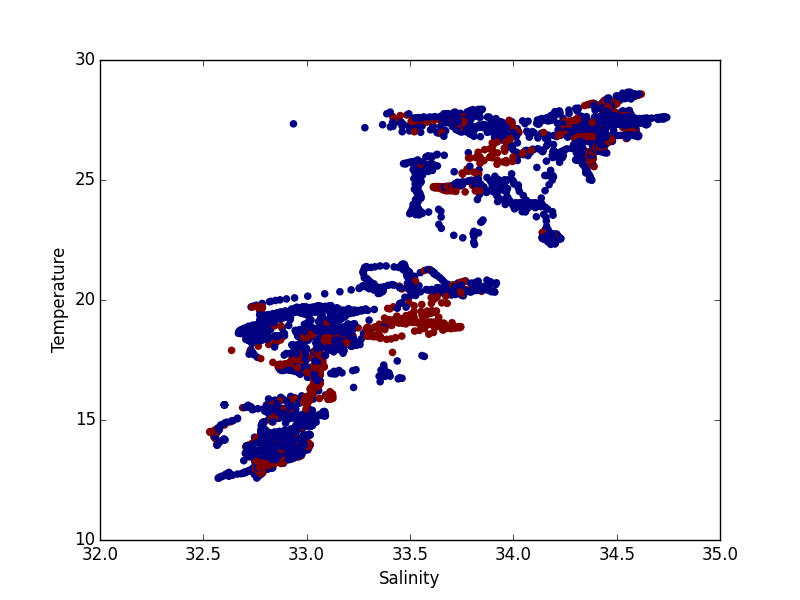
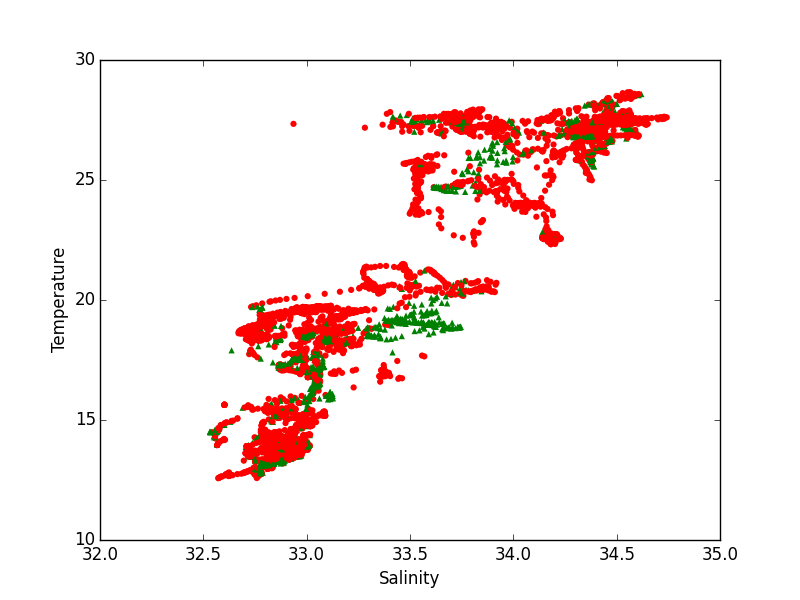
Output Files + Plots
- Added Voyage Plot

Changed region(s): [[0.25, 0.42, 0.625, 0.81], [0.4688, 0.15, 0.8438, 0.42]]

diff --git a/Code/Step 3 - PCA + KMeans + Plot/SeaFlow_Master.py b/Code/Step 3 - PCA + KMeans + Plot/SeaFlow_Master.py
@@ -15,6 +15,7 @@ import warnings
 import matplotlib.pylab
 from collections import Counter
 warnings.filterwarnings("ignore", 'Mean of empty slice.')
+from mpl_toolkits.basemap import Basemap, cm
 from sklearn.cluster import KMeans
 from sklearn import metrics
 from pylab import *
@@ -67,6 +68,37 @@ def Compute_Silhouette_Score(f):
         labels = kmeans_model.labels_  
         NoOfClusters[i] = metrics.silhouette_score(PCA_Data, labels, metric='euclidean')
     return max(NoOfClusters.iteritems(), key=operator.itemgetter(1))[0]
+
+def Plot_Voyage(Cruise, f):
+    VoyageImage = "C:\Users\NYU\SeaFlowCapstone\Voyage" + ".png"
+    source = pd.read_csv(f, usecols=['LAT', 'LON', 'OCEANTEMP', 'SALINITY', 'Cluster Class'])
+    x = (source['LON']).values 
+    y = (source['LAT']).values 
+    z = (source['Cluster Class']).values 
+    
+    GetFileVariables = pd.read_csv(Cruise, usecols=['Cruise'])
+    Cruise = GetFileVariables.at[0,'Cruise']    
+    
+    x[x<0]= 360+x[x<0];
+    xew = x
+    xew[xew>180] = xew[xew>180]-360
+    source['LON'] = xew
+    fig1 = plt.figure(1, figsize=(15,9))
+    m = Basemap(width=12000000,height=9000000,projection='lcc',
+                resolution='c',lat_1=15.,lat_2=60,lat_0=45,lon_0=-180.)
+    m.drawcoastlines()
+    m.drawmapboundary(fill_color='white')
+    m.fillcontinents(color='grey',lake_color='white')
+    xm, ym = m(xew,y)
+    colors = ['r', 'g', 'b']
+    markers = ['o','^','v']
+    for i,f in enumerate(xm):
+        m.scatter(xm[i], ym[i], s=30, marker=markers[z[i]], c=colors[z[i]], edgecolor='none')
+    m.drawparallels(np.arange(10,90,20),labels=[1,1,0,1])
+    m.drawmeridians(np.arange(-180,180,30),labels=[1,1,0,1])     
+    plt.savefig(VoyageImage)
+    plt.clf()        
+
 
 def Compute_KMeans(f,K):
     ComponentsFile = "C:\Users\NYU\SeaFlowCapstone\EigenComponents" + ".png"
@@ -137,30 +169,35 @@ def Compute_KMeans(f,K):
     plt.savefig(ComponentsFile)
     plt.clf()
     
+    colors = ['r', 'g', 'b']
+    markers = ['o','^','v']    
     fig = plt.figure()
-    plt.scatter(df_processed['SALINITY'],df_processed['OCEANTEMP'], s=20, c=df_processed['Cluster Class'], edgecolor='none')  
+    for i, f in enumerate(df_processed['SALINITY']):
+        plt.scatter(df_processed['SALINITY'].values[i],df_processed['OCEANTEMP'].values[i], s=20, marker=markers[df_processed['Cluster Class'].values[i]], c=colors[df_processed['Cluster Class'].values[i]], edgecolor='none')  
     plt.xlim(32, 35)
     plt.xlabel("Salinity")
     plt.ylabel("Temperature")    
     plt.savefig(TempSalFile)
     plt.clf()
+    return CFilePath
 
 def main():
-    ListofList = []
-    Dict_KMeans = {}
+    #ListofList = []
+    #Dict_KMeans = {}
     path = "C:\Users\NYU\Cap\*"
-    OPFile = 'C:\Users\NYU\SeaFlowCapstone\Capstone.csv'
+    #OPFile = 'C:\Users\NYU\SeaFlowCapstone\Capstone.csv'
     MergedFilePath = 'C:\\Users\\NYU\\SeaFlowCapstone\\Merged.csv'
-    EnvironmentVariables = 'C:\\Users\\NYU\\armbrustlab-seaflow-Tokyo3_sds.csv'
+    #EnvironmentVariables = 'C:\\Users\\NYU\\armbrustlab-seaflow-Tokyo3_sds.csv'
     FileList = CreateList(path)
-    for i in FileList:
-        Dict_KMeans = Counter(Dict_KMeans) + Counter(Create_Principal_Components(i)) 
-    FinalMatrix = pd.DataFrame(Dict_KMeans, columns=['day','file','Eigenvalue0','Eigenvector01','Eigenvector02','Eigenvector03','Eigenvalue1','Eigenvector11','Eigenvector12','Eigenvector13'])
-    FinalMatrix.to_csv(OPFile)
-    EnvVarFile = pd.read_csv(EnvironmentVariables, usecols=['day','file','LAT','LON','OCEANTEMP','SALINITY'])
-    MergedFile = pd.merge(FinalMatrix,EnvVarFile, on=['day','file'])
-    MergedFile.to_csv(MergedFilePath)
-    Compute_KMeans(MergedFilePath,Compute_Silhouette_Score(MergedFilePath))
+    #for i in FileList:
+    #    Dict_KMeans = Counter(Dict_KMeans) + Counter(Create_Principal_Components(i)) 
+    #FinalMatrix = pd.DataFrame(Dict_KMeans, columns=['day','file','Eigenvalue0','Eigenvector01','Eigenvector02','Eigenvector03','Eigenvalue1','Eigenvector11','Eigenvector12','Eigenvector13'])
+    #FinalMatrix.to_csv(OPFile)
+    #EnvVarFile = pd.read_csv(EnvironmentVariables, usecols=['day','file','LAT','LON','OCEANTEMP','SALINITY'])
+    #MergedFile = pd.merge(FinalMatrix,EnvVarFile, on=['day','file'])
+    #MergedFile.to_csv(MergedFilePath)
+    FilePath = Compute_KMeans(MergedFilePath,Compute_Silhouette_Score(MergedFilePath))
+    Plot_Voyage(FileList[0], FilePath)
     
 if __name__ == "__main__":
     main()
